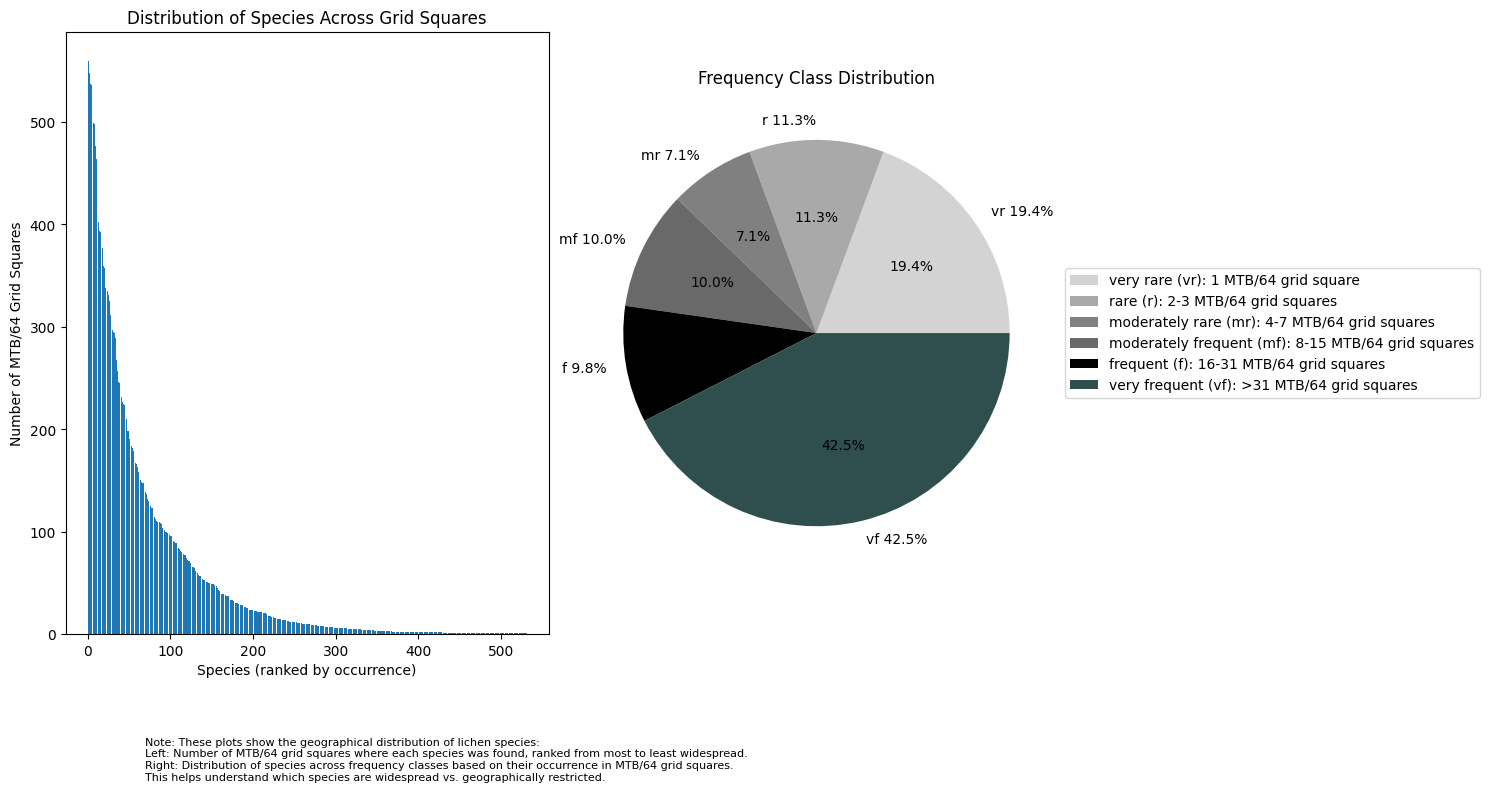
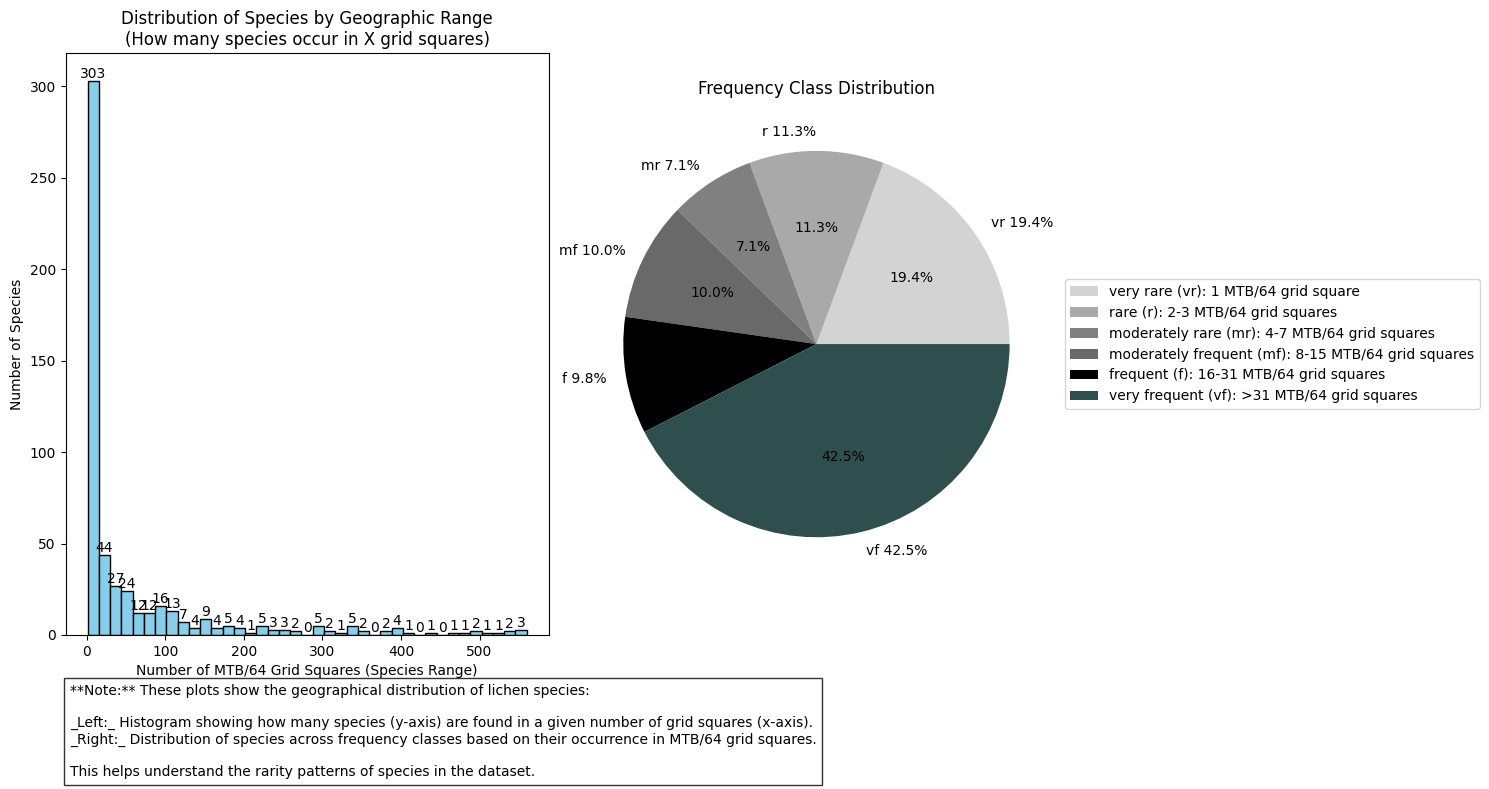
Added trend analyses

diff --git a/plotting.py b/plotting.py
@@ -2,6 +2,8 @@ import pandas as pd
 import matplotlib.pyplot as plt
 import numpy as np
 import os
+from functools import lru_cache
+from typing import Dict, List, Tuple
 
 # Load the data from the Excel files
 data = pd.read_excel('data/data.xlsx')
@@ -19,6 +21,7 @@ print(len(unique_genus)) # 235 unique genus
 
 # The 6th column Sub refers to the substrate, so where the lichen grows on. 
 # They are all abbreviations of trees, shrubs, stones, etc.
+@lru_cache(maxsize=None)
 def get_substrate_category(sub_code):
     """
     Categorize substrate codes into main categories based on their characteristics
@@ -136,8 +139,8 @@ def categorize_substrate(sub_code):
     
     return main_category_map.get(category, 'Other')
 
-def get_display_name(latin_name):
-    """Get display name for substrate, using Latin name to ensure uniqueness"""
+def get_display_name(latin_name: str) -> str:
+    """Get English display name for Latin species name"""
     # Common mapping of Latin genera to English names
     english_names = {
         'Quercus robur': 'English Oak',
@@ -177,28 +180,39 @@ def get_display_name(latin_name):
     return latin_name
 
 def plot_frequency_distribution(data):
-    """Create frequency distribution plot showing both MTB/64 distribution and frequency classes
-    This function analyzes the geographical distribution of lichen species using two key pieces of data:
-
-    - KMHOK (MTB/64 Grid Squares):
-        These are geographical grid coordinates that divide the study area into squares
-        Each number (like 511225, 511311) represents a specific grid square on the map
-        MTB/64 is a standardized grid system used for mapping species distributions
-    SPECIES:
-        This column contains the names of lichen species found in each grid square
-"""
-    # Create figure with extra space for note
+    """Create frequency distribution plot showing MTB/64 distribution and classes.
+    It effectively counts the number of unique grid squares per species and visualizes
+    this distribution."""
     fig, (ax1, ax2) = plt.subplots(1, 2, figsize=(15, 8))
     
-    # Group by species and count occurrences in different MTB/64 squares
-    # Shows how widespread each species is
-    # X-axis: Species (ranked from most to least widespread)
-    # Y-axis: Number of different grid squares where each species was found
-    # This tells us which species are found in many locations vs. few locations
+    # Count number of MTB/64 squares per species
     species_freq = data.groupby('SPECIES')['KMHOK'].nunique().reset_index()
     
-    species_freq = species_freq.sort_values('KMHOK', ascending=False)
+    # Create histogram of number of grid squares
+    # This shows how many species are found in X number of grid squares
+    hist_values, hist_bins, _ = ax1.hist(
+        species_freq['KMHOK'], 
+        bins=20,  # Adjust number of bins as needed
+        color='skyblue',
+        edgecolor='black'
+    )
     
+    # Add value labels on top of bars
+    for i in range(len(hist_values)):
+        ax1.text(
+            (hist_bins[i] + hist_bins[i+1])/2,  # Center of bar
+            hist_values[i],  # Height of bar
+            f'{int(hist_values[i])}',  # Number of species
+            ha='center',
+            va='bottom'
+        )
+    
+    # Make axes labels clearer
+    ax1.set_xlabel('Number of MTB/64 Grid Squares (Species Range)')
+    ax1.set_ylabel('Number of Species')
+    ax1.set_title('Distribution of Species by Geographic Range\n(How many species occur in X grid squares)')
+    
+    # Rest of the pie chart code remains the same
     # Create frequency classes based on MTB occurrences
     bins = [0, 1, 2, 4, 8, 16, float('inf')]
     labels = ['vr', 'r', 'mr', 'mf', 'f', 'vf']
@@ -207,17 +221,9 @@ def plot_frequency_distribution(data):
     # Calculate percentages for pie chart
     freq_dist = species_freq['freq_class'].value_counts()
     freq_percentages = freq_dist / len(species_freq) * 100
-    
-    # Sort the frequencies to match the legend order
     freq_percentages = freq_percentages.reindex(['vr', 'r', 'mr', 'mf', 'f', 'vf'])
     
-    # Bar plot showing distribution of species across MTB/64 squares
-    ax1.bar(range(len(species_freq)), species_freq['KMHOK'])
-    ax1.set_xlabel('Species (ranked by occurrence)')
-    ax1.set_ylabel('Number of MTB/64 Grid Squares')
-    ax1.set_title('Distribution of Species Across Grid Squares')
-    
-    # Pie chart with consistent colors
+    # Pie chart
     colors = ['lightgray', 'darkgray', 'gray', 'dimgray', 'black', 'darkslategray']
     wedges, texts, autotexts = ax2.pie(freq_percentages, 
                                       labels=[f'{l} {v:.1f}%' for l, v in zip(freq_percentages.index, freq_percentages)],
@@ -225,7 +231,7 @@ def plot_frequency_distribution(data):
                                       autopct='%1.1f%%')
     ax2.set_title('Frequency Class Distribution')
     
-    # Add legend with matching colors and clearer MTB/64 references
+    # Update legend
     legend_labels = [
         'very rare (vr): 1 MTB/64 grid square',
         'rare (r): 2-3 MTB/64 grid squares',
@@ -237,12 +243,19 @@ def plot_frequency_distribution(data):
     ax2.legend(wedges, legend_labels,
                loc='center left', bbox_to_anchor=(1, 0.5))
     
-    # Add explanatory note
-    note = ("Note: These plots show the geographical distribution of lichen species:\n"
-           "Left: Number of MTB/64 grid squares where each species was found, ranked from most to least widespread.\n"
-           "Right: Distribution of species across frequency classes based on their occurrence in MTB/64 grid squares.\n"
-           "This helps understand which species are widespread vs. geographically restricted.")
-    plt.figtext(0.1, 0.02, note, wrap=True, horizontalalignment='left', fontsize=8)
+    # Update note
+    note = ("**Note:** These plots show the geographical distribution of lichen species:\n\n"
+           "_Left:_ Histogram showing how many species (y-axis) are found in a given number of grid squares (x-axis).\n"
+           "_Right:_ Distribution of species across frequency classes based on their occurrence in MTB/64 grid squares.\n\n"
+           "This helps understand the rarity patterns of species in the dataset.")
+    
+    fig.text(0.05, 0.02, note, 
+             wrap=True,
+             horizontalalignment='left',
+             verticalalignment='bottom',
+             fontsize=10,
+             bbox=dict(facecolor='white', alpha=0.8),
+             transform=fig.transFigure)
     
     plt.tight_layout()
     plt.subplots_adjust(bottom=0.2)
@@ -489,6 +502,160 @@ def plot_woody_plants_distribution(data, substrats):
     plot_bark_distribution(data, substrats)
     plot_wood_distribution(data, substrats)
 
+def plot_temporal_trends(data):
+    """Create plot showing relative occurrences of species over time
+    
+    This function analyzes temporal trends while accounting for sampling effort by:
+    1. Calculating total observations per year
+    2. Converting species counts to relative frequencies
+    3. Showing both absolute and relative trends
+    """
+    # Create figure with subplots
+    fig, (ax1, ax2) = plt.subplots(2, 1, figsize=(15, 12))
+    
+    # Get yearly totals and species counts
+    yearly_data = data.groupby([data['DATE'].dt.year]).agg({
+        'AMOUNT': 'sum',  # Total observations
+        'SPECIES': 'nunique'  # Unique species
+    }).reset_index()
+    
+    # Plot 1: Absolute numbers
+    ax1.plot(yearly_data['DATE'], yearly_data['AMOUNT'], 
+             marker='o', label='Total observations', color='blue')
+    ax1.set_ylabel('Number of observations', color='blue')
+    
+    # Add second y-axis for species counts
+    ax1_twin = ax1.twinx()
+    ax1_twin.plot(yearly_data['DATE'], yearly_data['SPECIES'],
+                  marker='s', label='Unique species', color='red')
+    ax1_twin.set_ylabel('Number of unique species', color='red')
+    
+    # Add legend
+    lines1, labels1 = ax1.get_legend_handles_labels()
+    lines2, labels2 = ax1_twin.get_legend_handles_labels()
+    ax1.legend(lines1 + lines2, labels1 + labels2, loc='upper left')
+    
+    ax1.set_title('Absolute Numbers: Observations and Species Richness')
+    
+    # Plot 2: Relative frequencies
+    # Calculate species relative frequencies
+    yearly_species = data.groupby([data['DATE'].dt.year, 'SPECIES'])['AMOUNT'].sum().reset_index()
+    pivot_species = yearly_species.pivot(index='DATE', columns='SPECIES', values='AMOUNT').fillna(0)
+    
+    # Convert to relative frequencies
+    relative_freq = pivot_species.div(pivot_species.sum(axis=1), axis=0)
+    
+    # Select top 10 most common species for visualization
+    top_species = pivot_species.sum().nlargest(10).index
+    
+    # Plot relative frequencies for top species
+    for species in top_species:
+        ax2.plot(relative_freq.index, relative_freq[species], 
+                 label=species, marker='o', alpha=0.7)
+    
+    ax2.set_xlabel('Year')
+    ax2.set_ylabel('Relative Frequency')
+    ax2.set_title('Relative Frequencies of Top 10 Species Over Time')
+    ax2.legend(bbox_to_anchor=(1.05, 1), loc='upper left')
+    
+    # Add explanatory note
+    note = ("Note: These plots show temporal trends in lichen observations:\n"
+           "Top: Absolute numbers of total observations and unique species per year\n"
+           "Bottom: Relative frequencies of the 10 most common species,\n"
+           "normalized by total yearly observations to account for sampling effort")
+    plt.figtext(0.1, 0.02, note, wrap=True, horizontalalignment='left', fontsize=8)
+    
+    plt.tight_layout()
+    plt.subplots_adjust(bottom=0.15)
+    return fig
+
+def plot_trend_analysis(data):
+    """Create plot showing species with strongest positive and negative trends
+    
+    This function:
+    1. Calculates relative frequencies for each species per year
+    2. Fits a linear regression to identify trends
+    3. Shows top 5 increasing and top 5 decreasing species
+    """
+    # Calculate yearly relative frequencies
+    yearly_species = data.groupby([data['DATE'].dt.year, 'SPECIES'])['AMOUNT'].sum().reset_index()
+    yearly_totals = yearly_species.groupby('DATE')['AMOUNT'].sum()
+    yearly_species['relative_freq'] = yearly_species.apply(
+        lambda x: x['AMOUNT'] / yearly_totals[x['DATE']], axis=1
+    )
+    
+    # Pivot data for trend analysis
+    species_trends = yearly_species.pivot(
+        index='DATE', columns='SPECIES', values='relative_freq'
+    ).fillna(0)
+    
+    # Calculate trends using linear regression
+    trends = {}
+    for species in species_trends.columns:
+        x = np.arange(len(species_trends.index))
+        y = species_trends[species].values
+        slope, _ = np.polyfit(x, y, 1)
+        trends[species] = slope
+    
+    # Get top 5 increasing and decreasing species
+    trend_series = pd.Series(trends)
+    top_increasing = trend_series.nlargest(5)
+    top_decreasing = trend_series.nsmallest(5)
+    
+    # Create figure
+    fig, (ax1, ax2) = plt.subplots(2, 1, figsize=(15, 12))
+    
+    # Plot increasing trends
+    for species in top_increasing.index:
+        data = species_trends[species]
+        ax1.plot(species_trends.index, data, marker='o', label=f"{species} ({top_increasing[species]:.2e})")
+        
+        # Add trend line
+        x = np.arange(len(species_trends.index))
+        z = np.polyfit(x, data, 1)
+        p = np.poly1d(z)
+        ax1.plot(species_trends.index, p(x), '--', alpha=0.5)
+    
+    ax1.set_title('Top 5 Species with Strongest Increasing Trends')
+    ax1.set_ylabel('Relative Frequency')
+    ax1.legend(bbox_to_anchor=(1.05, 1), loc='upper left')
+    
+    # Plot decreasing trends
+    for species in top_decreasing.index:
+        data = species_trends[species]
+        ax2.plot(species_trends.index, data, marker='o', label=f"{species} ({top_decreasing[species]:.2e})")
+        
+        # Add trend line
+        x = np.arange(len(species_trends.index))
+        z = np.polyfit(x, data, 1)
+        p = np.poly1d(z)
+        ax2.plot(species_trends.index, p(x), '--', alpha=0.5)
+    
+    ax2.set_title('Top 5 Species with Strongest Decreasing Trends')
+    ax2.set_xlabel('Year')
+    ax2.set_ylabel('Relative Frequency')
+    ax2.legend(bbox_to_anchor=(1.05, 1), loc='upper left')
+    
+    # Add explanatory note with improved formatting
+    note = ("**Note:** These plots show species with the strongest trends over time:\n\n"
+           "_Top panel:_ Species with the strongest increasing relative frequency\n"
+           "_Bottom panel:_ Species with the strongest decreasing relative frequency\n\n"
+           "Numbers in parentheses show the slope of the trend line (change in relative frequency per year). "
+           "Dashed lines indicate the fitted linear trends.")
+    
+    # Use figure-width text box for note
+    fig.text(0.05, 0.02, note,
+             wrap=True,
+             horizontalalignment='left',
+             verticalalignment='bottom',
+             fontsize=10,
+             bbox=dict(facecolor='white', alpha=0.8),
+             transform=fig.transFigure)
+    
+    plt.tight_layout()
+    plt.subplots_adjust(bottom=0.2)
+    return fig
+
 def main():
     """Main function to create all plots"""
     # Read data
@@ -521,6 +688,16 @@ def main():
     
     # Create and save woody plants distribution plot
     plot_woody_plants_distribution(data, substrats)
+    
+    # Create and save temporal trends plot
+    fig6 = plot_temporal_trends(data)
+    fig6.savefig('plots/temporal_trends.png', bbox_inches='tight')
+    plt.close(fig6)
+    
+    # Create and save trend analysis plot
+    fig7 = plot_trend_analysis(data)
+    fig7.savefig('plots/trend_analysis.png', bbox_inches='tight')
+    plt.close(fig7)
 
 if __name__ == '__main__':
     main()
